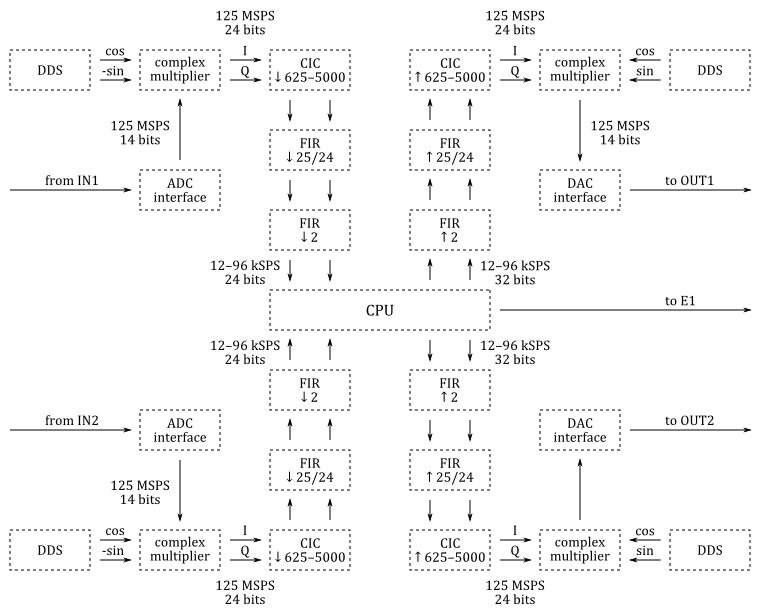
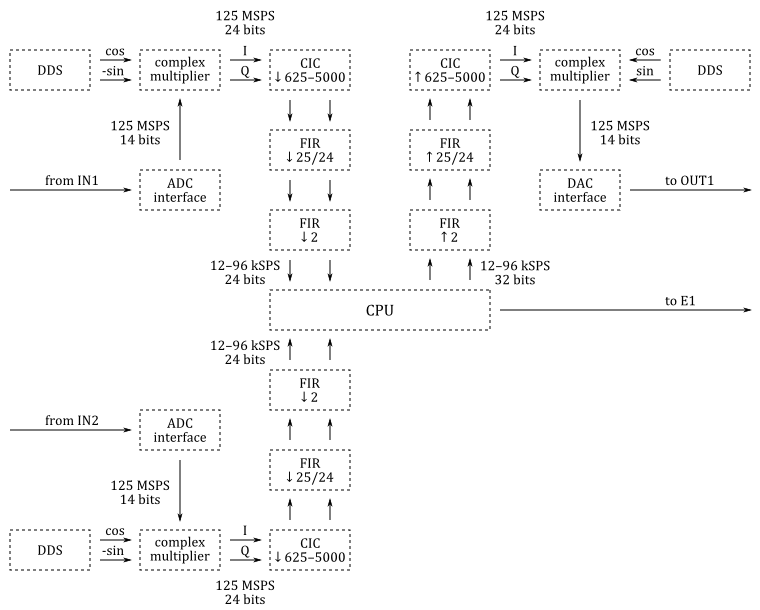
update information about FPGA configuration in sdr-transceiver-emb

diff --git a/sdr-transceiver-emb.md b/sdr-transceiver-emb.md
@@ -12,16 +12,16 @@ This version of the Red Pitaya SDR transceiver may be useful for building a smal
 Hardware
 -----
 
-The structure of this version is very similar to the SDR transceiver described at [this link]({{ "/sdr-transceiver/" | prepend: site.baseurl }}). The two main differences are:
+The structure of this version is very similar to the SDR transceiver described at [this link]({{ "/sdr-transceiver-hpsdr/" | prepend: site.baseurl }}). The two main differences are:
 
- - FIR filters for fractional sample rate conversion,
- - lower sample rates (24, 48, 96 kSPS).
+ - lower sample rates (24, 48, 96 kSPS),
+ - fewer FIR filters.
 
 The basic blocks of the digital down-converters (DDC) and of the digital up-converters (DUC) are shown on the following diagram:
 
 ![Embedded SDR transceiver]({{ "/img/sdr-transceiver-emb.png" | prepend: site.baseurl }})
 
-The [projects/sdr_transceiver_emb](https://github.com/pavel-demin/red-pitaya-notes/tree/master/projects/sdr_transceiver_emb) directory contains four Tcl files: [block_design.tcl](https://github.com/pavel-demin/red-pitaya-notes/blob/master/projects/sdr_transceiver_emb/block_design.tcl), [trx.tcl](https://github.com/pavel-demin/red-pitaya-notes/blob/master/projects/sdr_transceiver_emb/trx.tcl), [rx.tcl](https://github.com/pavel-demin/red-pitaya-notes/blob/master/projects/sdr_transceiver_emb/rx.tcl), [tx.tcl](https://github.com/pavel-demin/red-pitaya-notes/blob/master/projects/sdr_transceiver_emb/tx.tcl). The code in these files instantiates, configures and interconnects all the needed IP cores.
+The [projects/sdr_transceiver_emb](https://github.com/pavel-demin/red-pitaya-notes/tree/master/projects/sdr_transceiver_emb) directory contains three Tcl files: [block_design.tcl](https://github.com/pavel-demin/red-pitaya-notes/blob/master/projects/sdr_transceiver_emb/block_design.tcl), [rx.tcl](https://github.com/pavel-demin/red-pitaya-notes/blob/master/projects/sdr_transceiver_emb/rx.tcl), [tx.tcl](https://github.com/pavel-demin/red-pitaya-notes/blob/master/projects/sdr_transceiver_emb/tx.tcl). The code in these files instantiates, configures and interconnects all the needed IP cores.
 
 Software
 -----
@@ -70,8 +70,8 @@ The structure of the source code and of the development chain is described at [t
 
 Setting up the Vivado environment:
 {% highlight bash %}
-source /opt/Xilinx/Vivado/2015.4/settings64.sh
-source /opt/Xilinx/SDK/2015.4/settings64.sh
+source /opt/Xilinx/Vivado/2016.1/settings64.sh
+source /opt/Xilinx/SDK/2016.1/settings64.sh
 {% endhighlight %}
 
 Cloning the source code repository:
